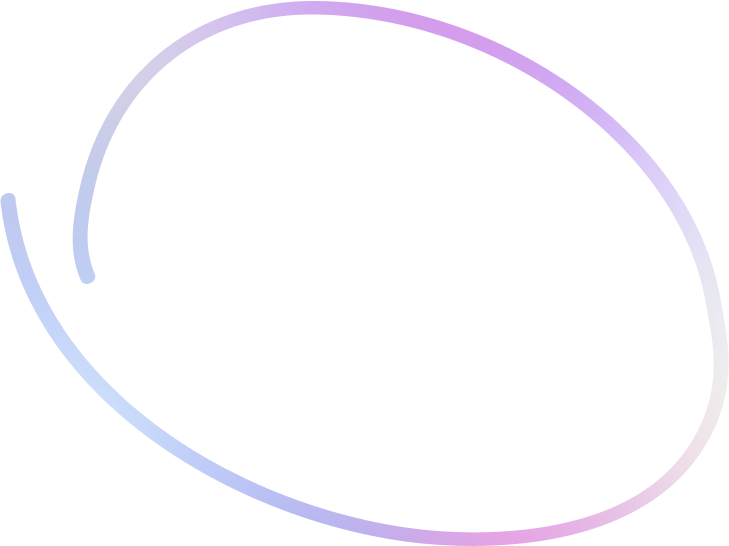
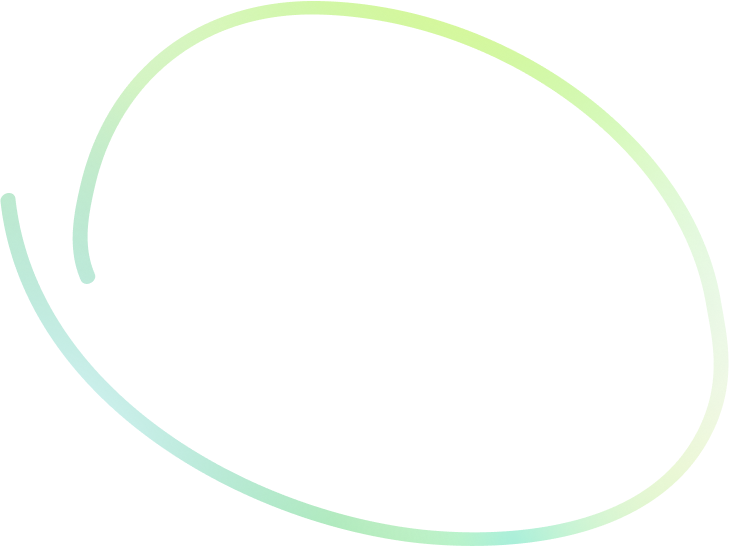
Finished - Responsive Design

Changed region(s): [[0.0905, 0.0, 0.9657, 0.5293], [0.2112, 0.7784, 0.9657, 1.0], [0.0, 0.3425, 0.0905, 0.5916]]

diff --git a/my-app/src/App.css b/my-app/src/App.css
@@ -17,14 +17,27 @@
 
 
 @media (min-width: 1200px) {
-  .ProductFocus {
-    left: 300px;
+  .logo {
+    left: 32%;
+    position: fixed;
+    color: black;
+    font-family: 'Trebuchet MS', 'Lucida Sans Unicode', 'Lucida Grande', 'Lucida Sans', Arial, sans-serif;
+    font-size: 175%;
+    font-weight: bold;
   }
   .maintext {
-    font-size: 300px;
+    left: 30%;
+    position: fixed;
+    color: black;
+    font-family: 'Trebuchet MS', 'Lucida Sans Unicode', 'Lucida Grande', 'Lucida Sans', Arial, sans-serif;
+    font-size: 60px;
+    font-weight: bold;
+    transition: 150ms;
   }
-  .FocusWindow{
 
+
+
+  .FocusWindow{
     top: 25%;
     z-index: 10;
     height: 65vh;
@@ -41,6 +54,8 @@
     max-height: 650px;
     width: 40vw;
     max-width: 800px;
+    overflow-x: hidden;
+    overflow-y: hidden;
   }
 
   .TopNav{
@@ -58,6 +73,24 @@
   }
 }
 @media (max-width: 1200px) {
+  .logo {
+    left: 15%;
+    position: fixed;
+    color: black;
+    font-family: 'Trebuchet MS', 'Lucida Sans Unicode', 'Lucida Grande', 'Lucida Sans', Arial, sans-serif;
+    font-size: 175%;
+    font-weight: bold;
+  }
+  .maintext {
+    left: 5%;
+    position: fixed;
+    color: black;
+    font-family: 'Trebuchet MS', 'Lucida Sans Unicode', 'Lucida Grande', 'Lucida Sans', Arial, sans-serif;
+    font-size: 55px;
+    font-weight: bold;
+    transition: 150ms;
+  }
+
   .ProductContainer {
     overflow-y: visible;
     width: 600px;
@@ -80,7 +113,7 @@
     float: right;
     position: fixed;
     z-index: 2;
-    background: black;
+
   }
 
 
@@ -98,7 +131,8 @@
     margin-left: 65%;
     top: 9%;
     left: 30%;
-    height: 85%;
+
+    height: 100%;
     max-height: 650px;
     width: 40vw;
     max-width: 800px;
@@ -109,19 +143,20 @@
   .ProductFocus{
     left: 0;
     margin-left: 0%;
-    top: 9%;
-  position: fixed;
+    top: 7%;
+    position: fixed;
     height: 90%;
     max-height: 650px;
     width: 93%;
     max-width: 800px;
+
   }
 }
 
 
 body{
   margin: 0; height: 100%; overflow: hidden;
-  background-image: url("Vector.png");
+  background-image: url("Vector.svg");
   background-repeat: no-repeat;
   background-position:right;
 
@@ -129,14 +164,14 @@ body{
 
 .XButton {
   position: absolute;
-  right: 32px;
-  top: 32px;
+  right: 15px;
+  top: 15px;
   width: 32px;
   height: 32px;
-  opacity: 0.3;
+  opacity: 1;
 }
 .XButton:hover {
-  opacity: 1;
+  opacity: 0.5;
 }
 .XButton:before, .close:after {
   position: absolute;
@@ -151,6 +186,11 @@ body{
 }
 .XButton:after {
   transform: rotate(-45deg);
+}
+
+p{
+  font-family: "Lucida Sans Unicode", "Lucida Grande", sans-serif;
+
 }
 .header{
   font-family: "Lucida Sans Unicode", "Lucida Grande", sans-serif;
@@ -261,27 +301,7 @@ body{
   height: 75%;
 
 }
-.logo {
-  left: 32%;
-  position: fixed;
-  color: black;
-  font-family: 'Trebuchet MS', 'Lucida Sans Unicode', 'Lucida Grande', 'Lucida Sans', Arial, sans-serif;
-  font-size: 175%;
-  font-weight: bold;
-}
-.maintext {
-  left: 30%;
-  position: fixed;
-  color: black;
-  font-family: 'Trebuchet MS', 'Lucida Sans Unicode', 'Lucida Grande', 'Lucida Sans', Arial, sans-serif;
-  font-size: 60px;
-  font-weight: bold;
-  transition: 150ms;
-}
-.maintext:hover{
-  font-size: 65px;
-  transition: 150ms;
-}
+
 
 .ProductFocus{
   border: 2pt solid black;
@@ -290,12 +310,11 @@ body{
   position: absolute;
   transition: 150ms;
   animation: 0.2s ease-out 0s 1 slideInFromLeft;
-  box-shadow: 5px 5px 50px -40px #000000;
-  overflow-y: scroll;
 
 }
 .commentBox{
   height: 10vh;
+  width: 80%;
   overflow-y: scroll;
   overflow-x: hidden;
 }
@@ -303,7 +322,7 @@ body{
   height: 90%;
   margin: 10%;
   width: 10px;
-  display: none;
+  display: block;
 }
 
 ::-webkit-scrollbar-track {
@@ -333,7 +352,7 @@ body{
   position: absolute;
   transition: 150ms;
   animation: 0.2s ease-out 0s 1 slideActuallyInFromLeft;
-  box-shadow: 5px 5px 50px -40px #000000;
+
   overflow-x: scroll;
 }
 
@@ -357,24 +376,36 @@ body{
 }
 
 .focusContent{
-  display:block;
-  padding: 5%;
-  width: 100%;
+
+  display:inline-block;
+  text-align:center;
+  align-content: center;
+  width: 90%;
   transition: 150ms;
   animation: 0.4s ease-out 0s 1 slideInFromLeft;
 
 }
 .productImage{
-  width: 30%;
-  height: 30%;
+  width: 250px;
+  height: 250px;
+  max-height: 250px;
 
   padding: 5px;
+  border: 2px solid greenyellow;
 }
 
+::placeholder {
+  color: black;
+  font-size: 1.2em;
+  font-family: 'Trebuchet MS', 'Lucida Sans Unicode', 'Lucida Grande', 'Lucida Sans', Arial, sans-serif;
+
+}
 
 input{
-  border-radius: 5pt;
   margin: 5pt;
+  background: white;
+  border:   2pt solid greenyellow;
+  outline: hidden;
 }
 
 .TopNavForm{
@@ -391,32 +422,57 @@ input{
   transition: 1s;
 }
 .searchField:focus{
+  outline: hidden;
   border-radius: 10px;
   width: 30%;
 }
 
+.Product-name{
+  font-family: 'Trebuchet MS', 'Lucida Sans Unicode', 'Lucida Grande', 'Lucida Sans', Arial, sans-serif;
+  font-size: 150%;
+  font-weight: bold;
+}
+
 .navButton{
   width: 65px;
-  height: 25px;
-  border-radius: 5pt;
-  background: white;
+  height: 30px;
+  background: black;
+  border: greenyellow;
+  margin-top: 1%;
+  margin-left: 5px;
 
-
-  margin: 1%;
-  border: 1pt black solid;
-
+  box-shadow: 2px 2px 0px 1px greenyellow;
 }
 .navButton:hover{
+  color: black;
+  background: greenyellow;
+
+}
+
+button{
   color: white;
   background: black;
+  height: 30px;
+  border: greenyellow;
+  margin-top: 1%;
+  margin-left: 5px;
+  font-family: 'Trebuchet MS', 'Lucida Sans Unicode', 'Lucida Grande', 'Lucida Sans', Arial, sans-serif;
+}
 
+button:hover{
+  color: black;
+  background: white;
 }
 
 .navInput{
 height: 25px;
 width: 200px;
   display: inline-block;
-  border: 1pt black solid;
+
+}
+
+.navInput:focus{
+  outline: hidden;
 }
 
 @keyframes from0to360 {

diff --git a/my-app/src/ProductComponents/ProductFocus.js b/my-app/src/ProductComponents/ProductFocus.js
@@ -48,9 +48,10 @@ export function ProductFocus(props) {
                 <header className="Product-name">
                 <p> {props.name} </p>
                 </header>
-                <p> {props.description} </p>
-                <p> {props.price} €</p>
+                <p> {props.description} // {props.price} € </p>
+                {props.img !== undefined && (
                 <img className={"productImage"} src={props.img}/>
+                )}
                 {props.availability === 0 && (
                     <p>Item is currently not in Stock</p>
                 )}
@@ -69,7 +70,7 @@ export function ProductFocus(props) {
                         )}
                     {props.purchases.filter(e=> e.Products.includes(props.name)).length===0 && props.isLoggedIn !== false && (
                         <div>
-                            You have to purchase the Item before you can leave a comment.
+                            <p>You have to purchase the Item before you can leave a comment.</p>
                         </div>
                     )}
                     {props.isLoggedIn === false && (

diff --git a/my-app/src/App.js b/my-app/src/App.js
@@ -7,6 +7,9 @@ import React, {useEffect, useState} from "react";
 import SubWindow from "./SubWindows/SubWindow";
 import { ReactSession } from 'react-client-session';
 import HamNav from "./TopNavComponents/HamNav";
+
+import useMouse from '@react-hook/mouse-position'
+
 /*
 
 • Anlegen / Editieren / Löschen von Produkten
@@ -85,6 +88,14 @@ export default function App() {
         getProducts();
         return;
     }, [products.length]);
+
+    const Component = (props) => {
+        const ref = React.useRef(null)
+        const mouse = useMouse(ref, {
+            enterDelay: 100,
+            leaveDelay: 100,
+        })}
+
 
     return (
 

diff --git a/my-app/src/AccountComponents/AccountWindow.js b/my-app/src/AccountComponents/AccountWindow.js
@@ -46,7 +46,7 @@ export function AccountWindow(props) {
         <div className="FocusWindow">
             <XButton setOpenedItem={props.setOpenedItem}/>
             <div className={'focusContent'}>
-                <button onClick={() => clear()}> CLEAR CACHE </button> (you should log out immediately after, or the cache might be reloaded
+                <button onClick={() => clear()}> CLEAR CACHE </button> <p>(you should log out immediately after, or the cache might be reloaded</p>
                 <div> YOUR COMMENTS </div>
               <AccCommentList comments={props.accComments}/>
                 <div> YOUR PURCHASES </div>

diff --git a/my-app/src/ProductComponents/ProductList.js b/my-app/src/ProductComponents/ProductList.js
@@ -24,7 +24,8 @@ export default function ProductList(props) {
        }
     }
     const colors =
-        ['#52FF00', '#00FFE0', '#3300FF', "#0057FF", "#AD00FF", "#FF0000", "#FFA800", '#CCFF00', '#52FF00']
+    //    ['#52FF00', '#00FFE0', '#3300FF', "#0057FF", "#AD00FF", "#FF0000", "#FFA800", '#CCFF00', '#52FF00']
+        ['greenyellow', 'greenyellow','greenyellow','greenyellow','greenyellow','greenyellow','greenyellow','greenyellow','greenyellow',]
     let counter = -1;
 
     function AproductList(props) {
